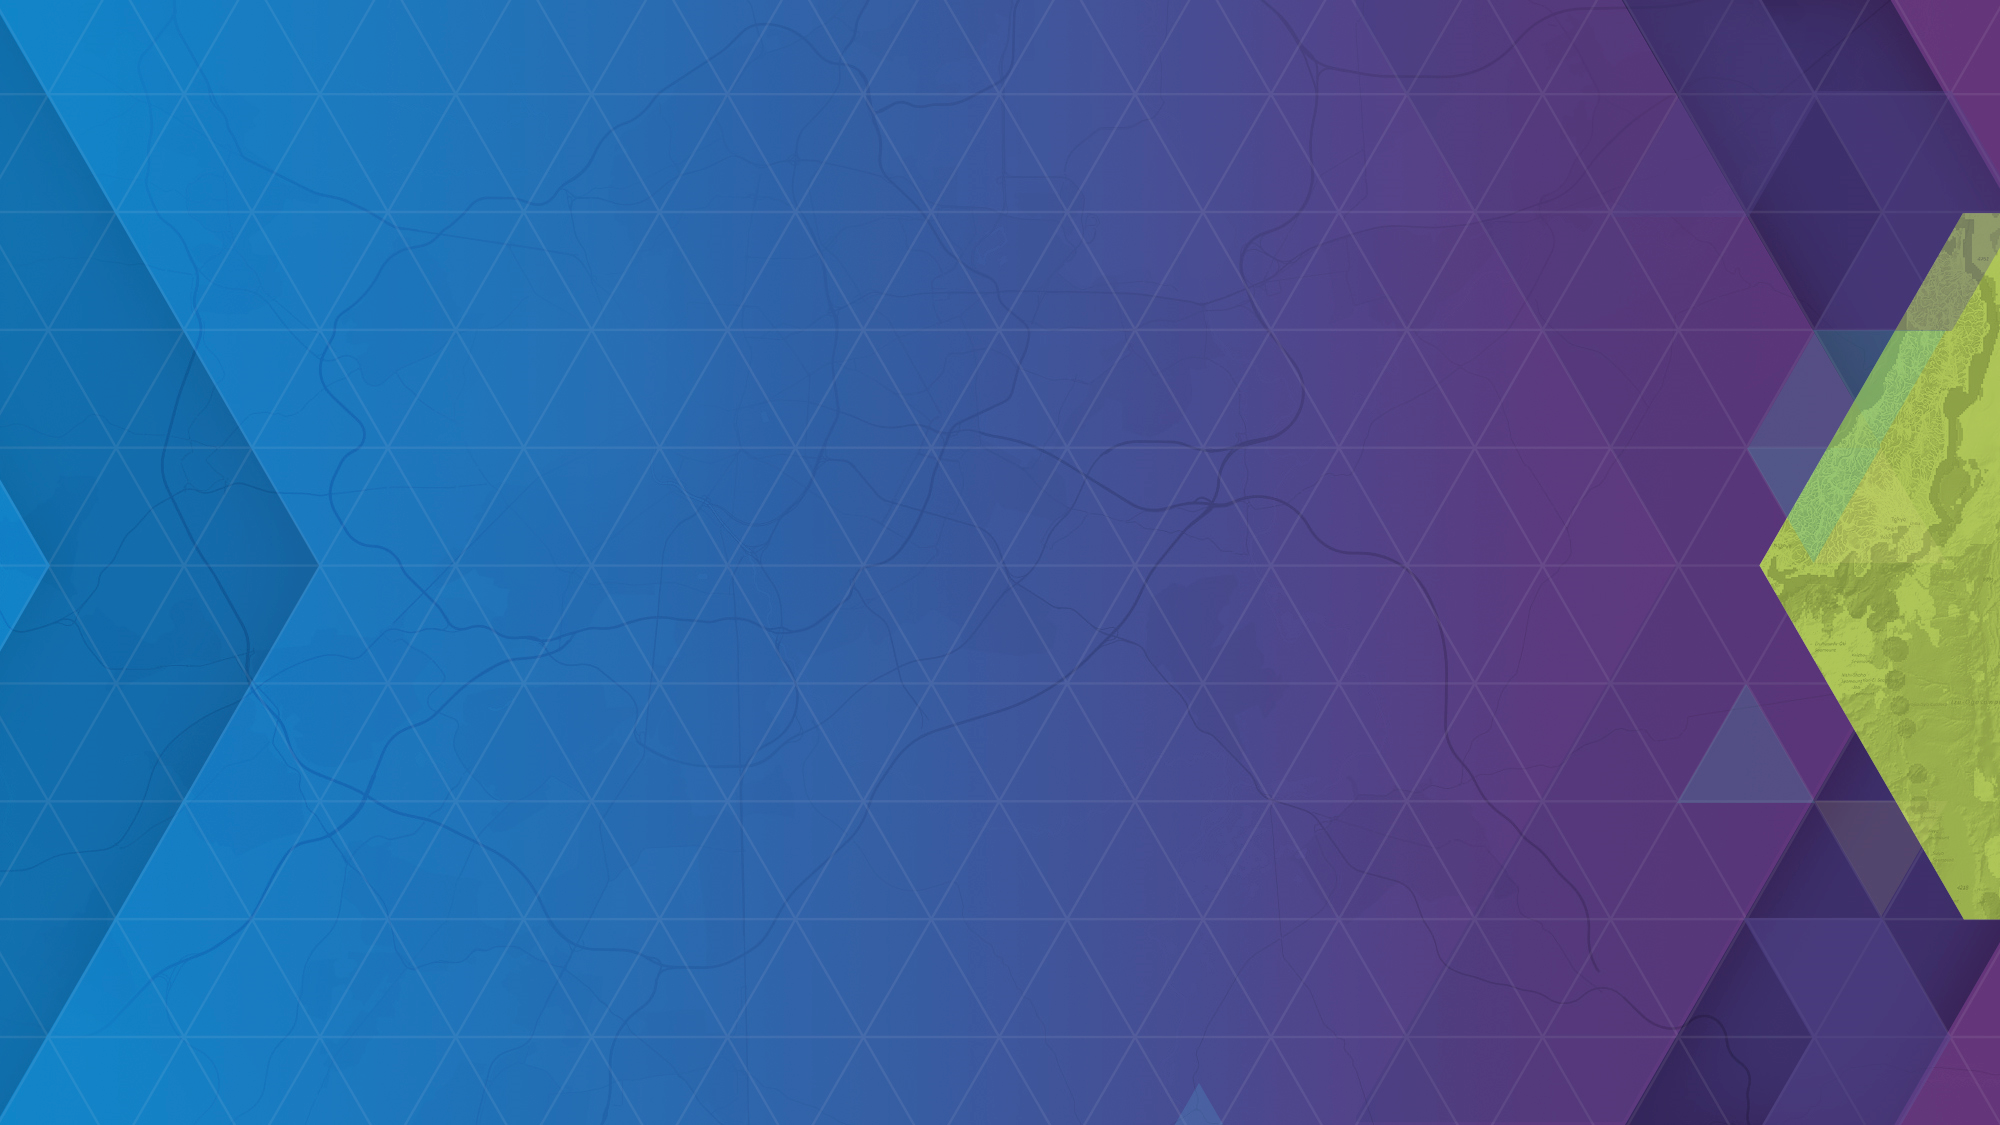
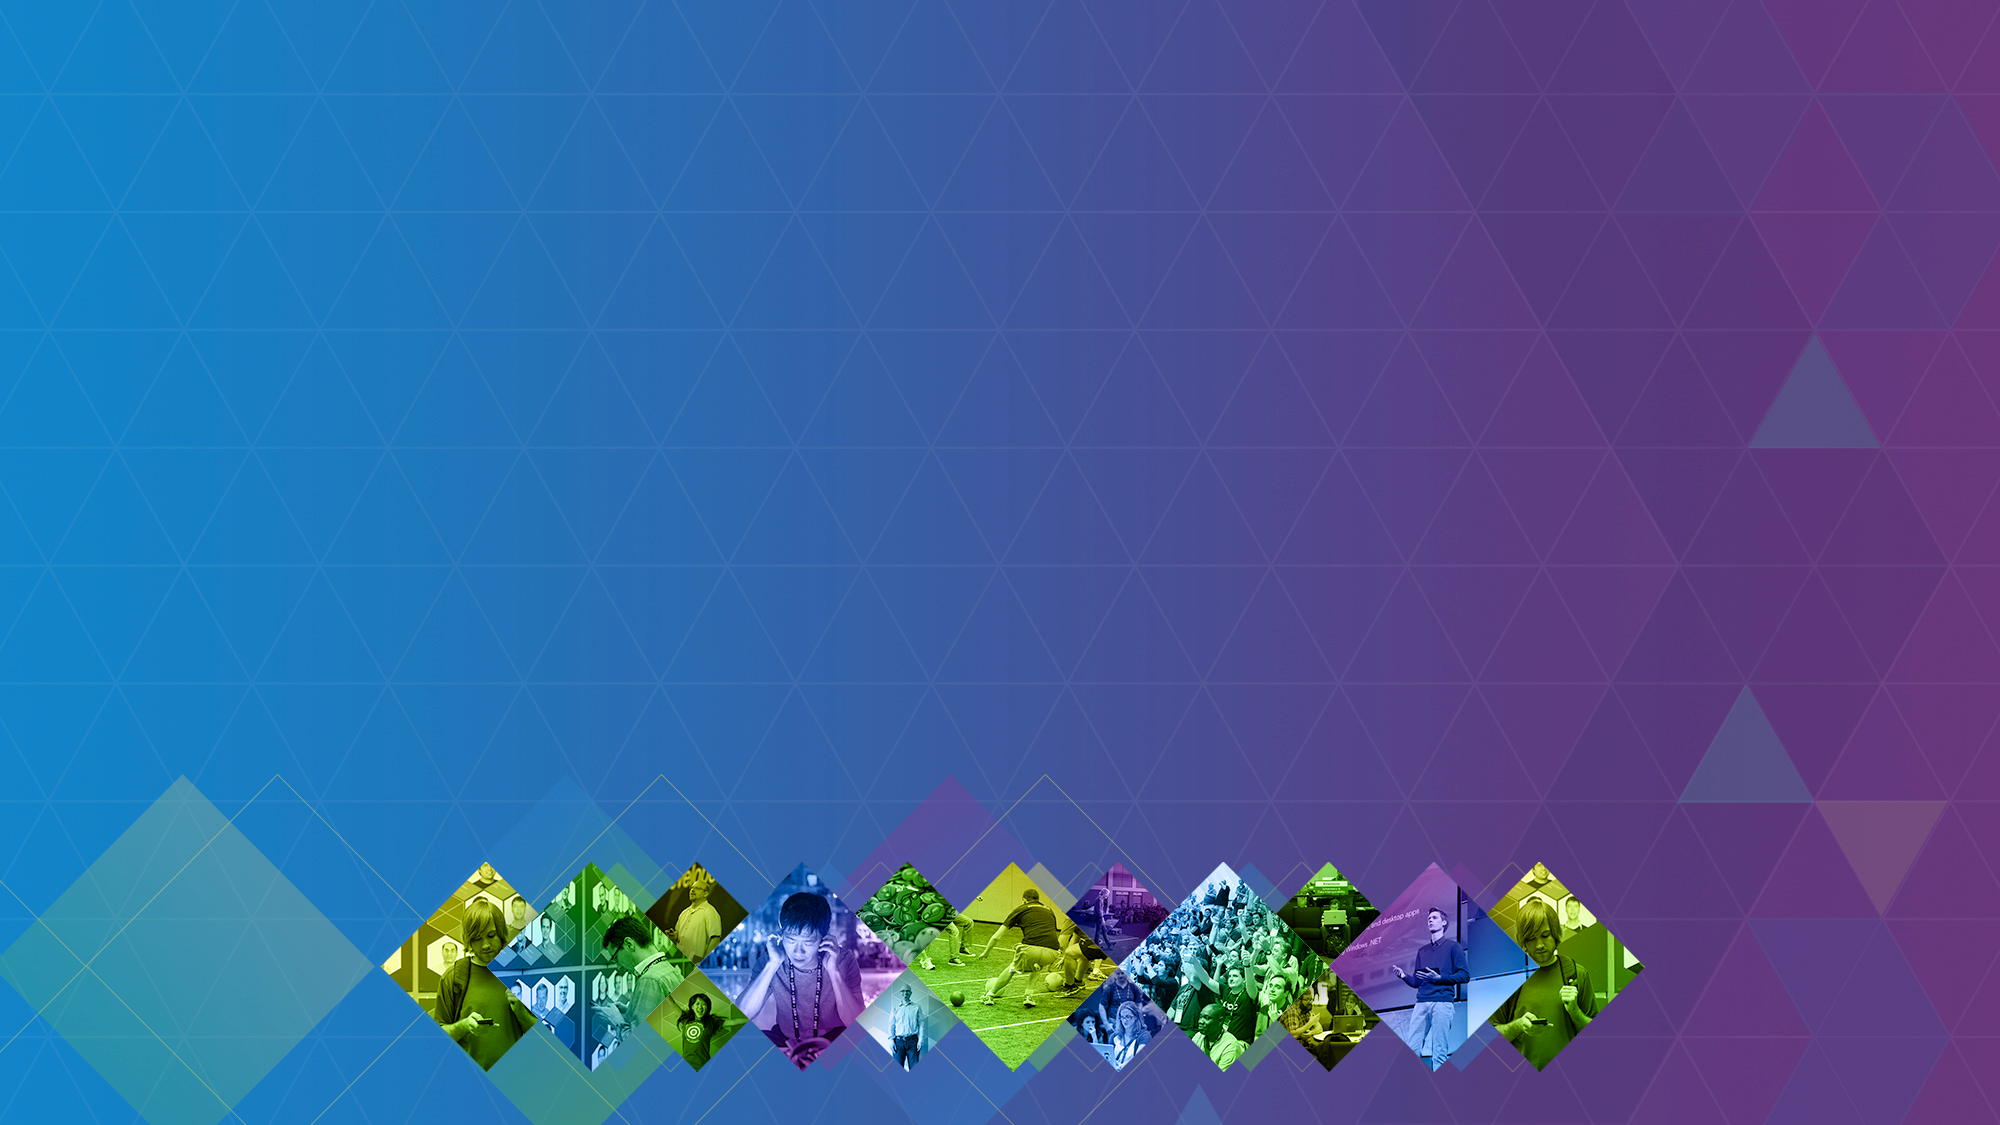
Removed intro slide and a grunt slide, swapped backgrounds for title/final slides, added gh-pages grunt task for deploying

Changed region(s): [[0.0, 0.0, 1.0, 1.0]]

diff --git a/index.html b/index.html
@@ -48,14 +48,7 @@
 						<p></p>
 					</aside>
 				</section>
-				<section data-background="img/stl-dc.png" class="about">
-					<h2>Introductions... TODO</h2>
 
-					<aside class="notes">
-						<p>Introduce ourselves, why we put this talk together... being in PS
-							means we are more like the devs at this conference, etc etc</p>
-					</aside>
-				</section>
 				<section data-background="img/bg-primary.png">
 					<blockquote>
 						“Always code as if the guy who ends up maintaining your code will be 
@@ -118,14 +111,14 @@
 				</section>
 
 				<section data-background="img/sadface.gif">
-					<div style="position:absolute; bottom:-650px; left:-250px; background-color:white; color:black; padding:20px; font-size:1.5em">I use IDLE &amp; Dreamweaver.</div>
+					<div style="position:absolute; bottom:-650px; left:-100px; background-color:white; color:black; padding:20px; font-size:1.5em">I use IDLE &amp; Dreamweaver.</div>
 					<aside class="notes">
 						Don't be that dev who acts like fancy IDE's are only for experts.
 					</aside>
 				</section>
 
 				<section data-background="img/excited.gif">
-					<div style="position:absolute; bottom:-650px; left:-250px; background-color:white; color:black; padding:20px; font-size:1.25em">...opens PyCharm &amp; Sublime Text</div>
+					<div style="position:absolute; bottom:-650px; left:-100px; background-color:white; color:black; padding:20px; font-size:1.25em">...opens PyCharm &amp; Sublime Text</div>
 					<aside class="notes">
 						Use IDE's, they make your life easier - not harder.
 					</aside>
@@ -335,16 +328,6 @@
 					</div>
 					<aside class="notes">
 						Automate the automation.
-					</aside>
-				</section>
-
-				<section data-background="img/bg-primary.png" class="">
-					<div>
-						<img src="img/grunt-test.png" height="420" width="785" class="stripped" style="padding:20px"><br>
-						Use <span class="tool-name">grunt-contrib-watch</span> or run tasks manually
-					</div>
-					<aside class="notes">
-						Run tasks from the command line, either manually or with watch.
 					</aside>
 				</section>
 

diff --git a/Gruntfile.js b/Gruntfile.js
@@ -133,6 +133,32 @@ module.exports = function(grunt) {
 			html: {
 				files: ['index.html']
 			}
+		},
+
+		copy: {
+			main: {
+				files: [{
+					expand: true,
+					src: [
+						'index.html',
+						'js/*',
+						'img/*',
+						'css/*.min.css',
+						'css/theme/*',
+						'lib/**',
+						'plugin/**'
+					],
+					dest: 'dist/',
+					flatten: false
+				}]
+			}
+		},
+
+		'gh-pages': {
+			options: {
+				base: 'dist'
+			},
+			src: ['**']
 		}
 
 	});
@@ -147,6 +173,8 @@ module.exports = function(grunt) {
 	grunt.loadNpmTasks('grunt-contrib-connect');
 	grunt.loadNpmTasks('grunt-autoprefixer');
 	grunt.loadNpmTasks('grunt-zip');
+	grunt.loadNpmTasks('grunt-contrib-copy');
+	grunt.loadNpmTasks('grunt-gh-pages');
 
 	// Default task
 	grunt.registerTask('default', ['css', 'js']);
@@ -171,5 +199,8 @@ module.exports = function(grunt) {
 
 	// Run tests
 	grunt.registerTask('test', ['jshint', 'qunit']);
+
+	// Deploy to gh-pages
+	grunt.registerTask('deploy', ['copy', 'gh-pages']);
 
 };
